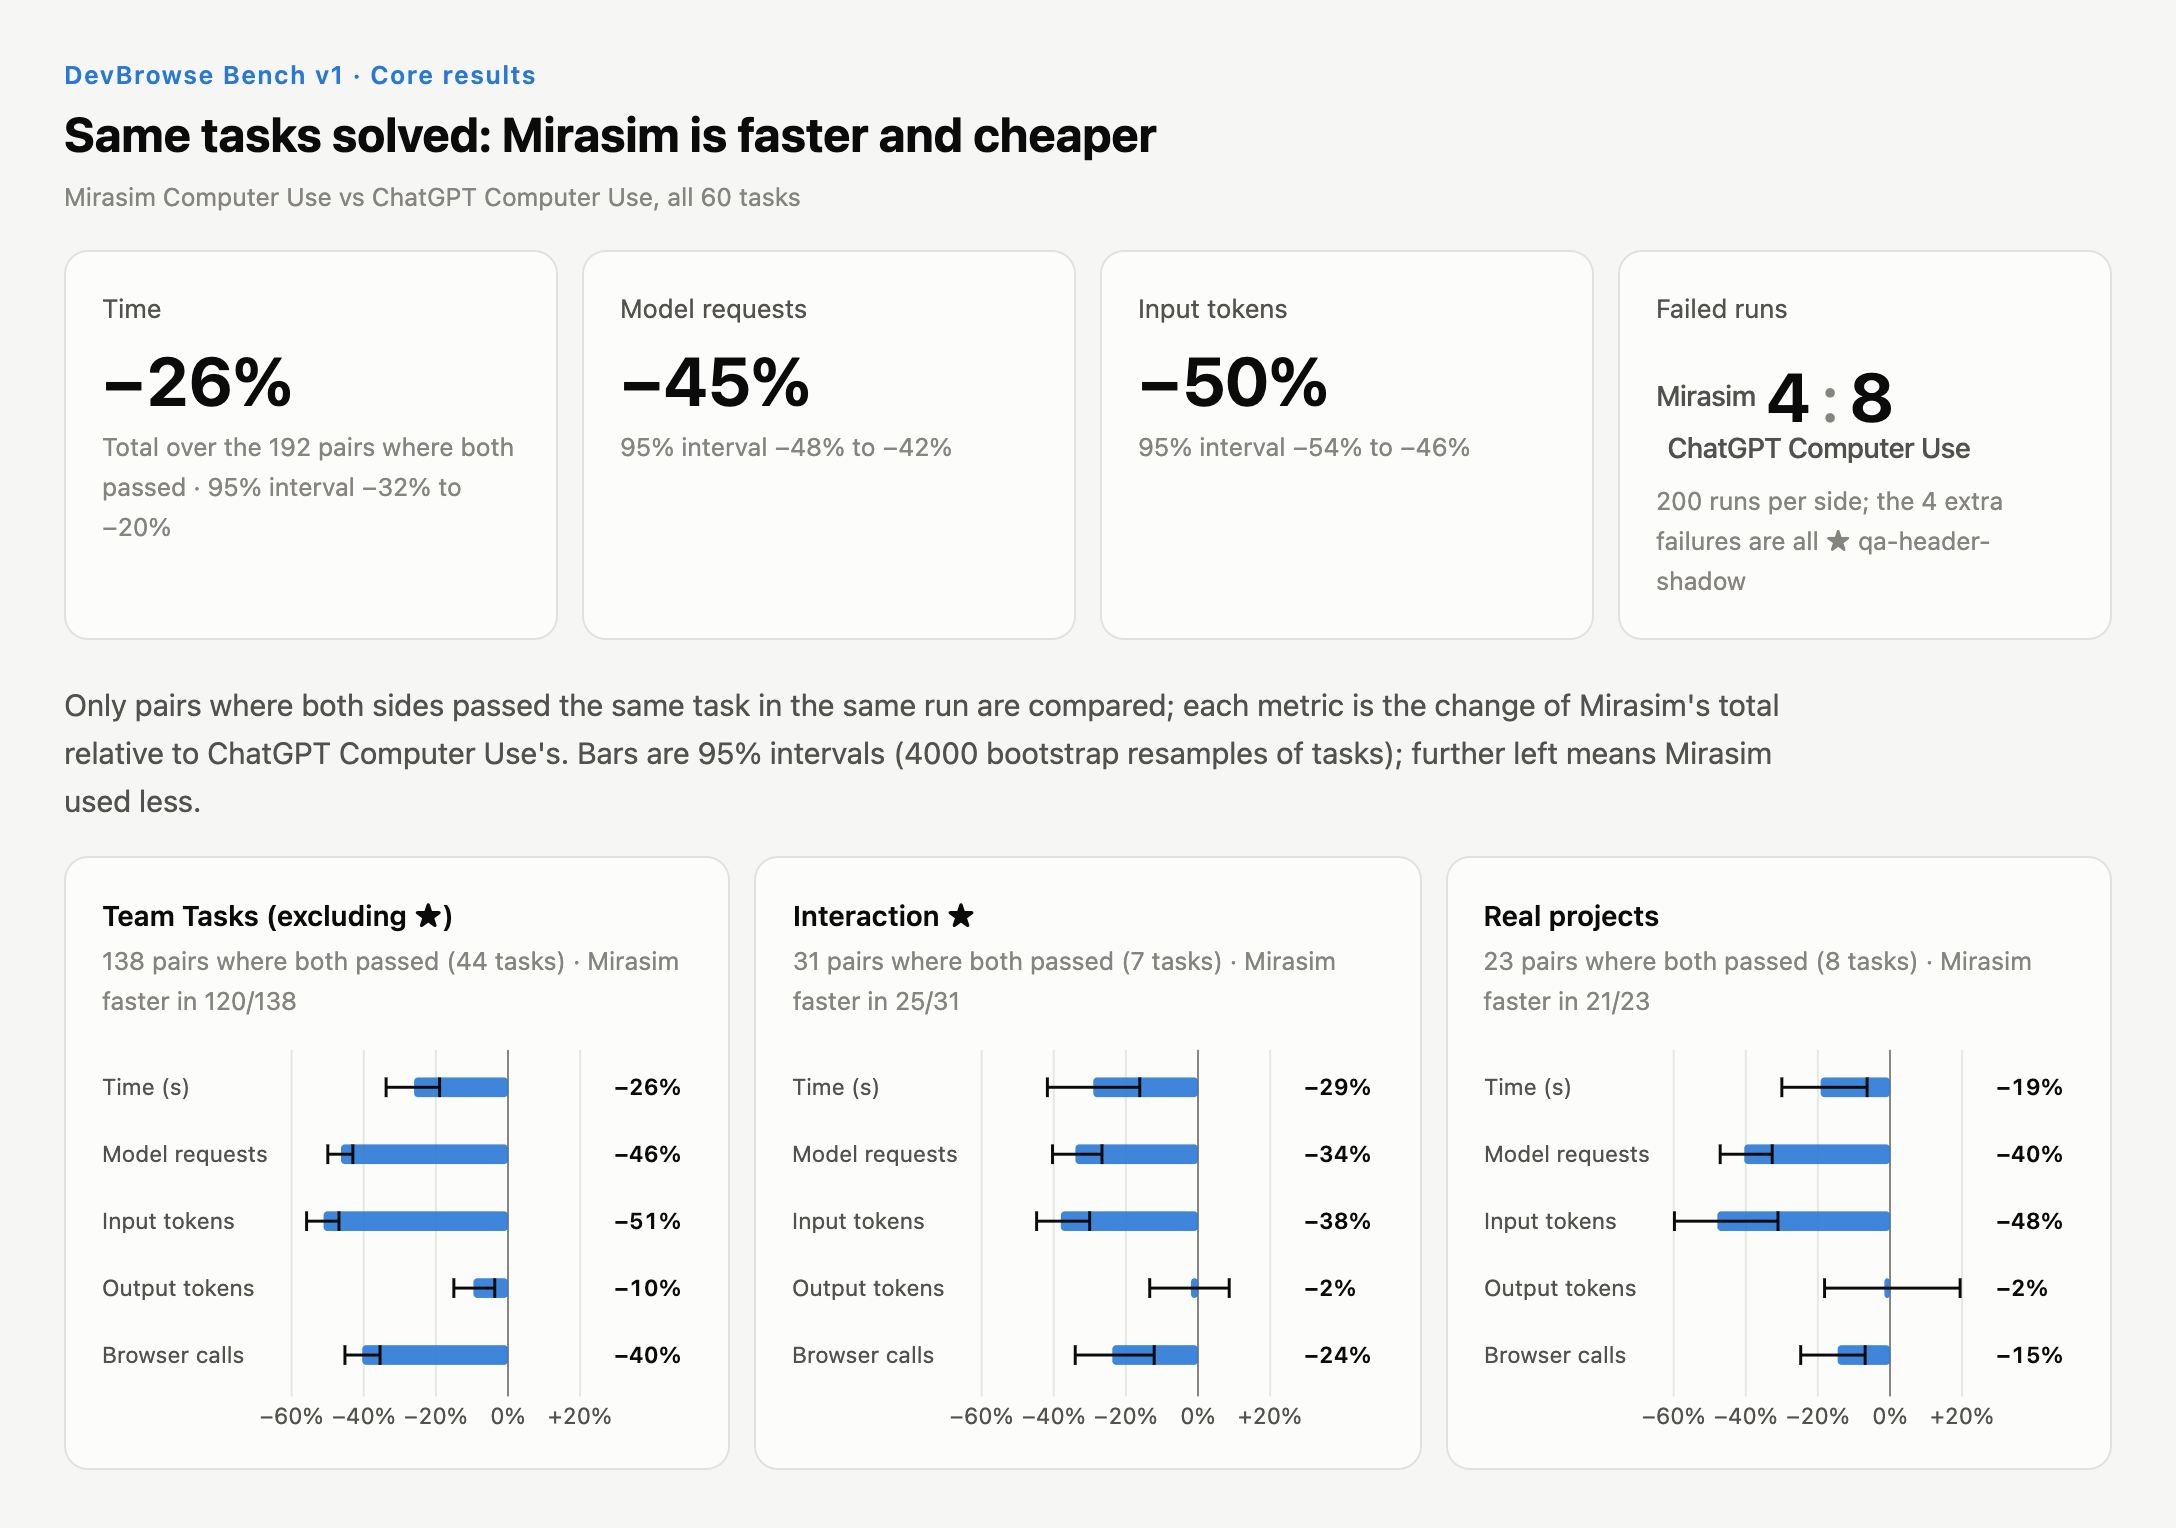
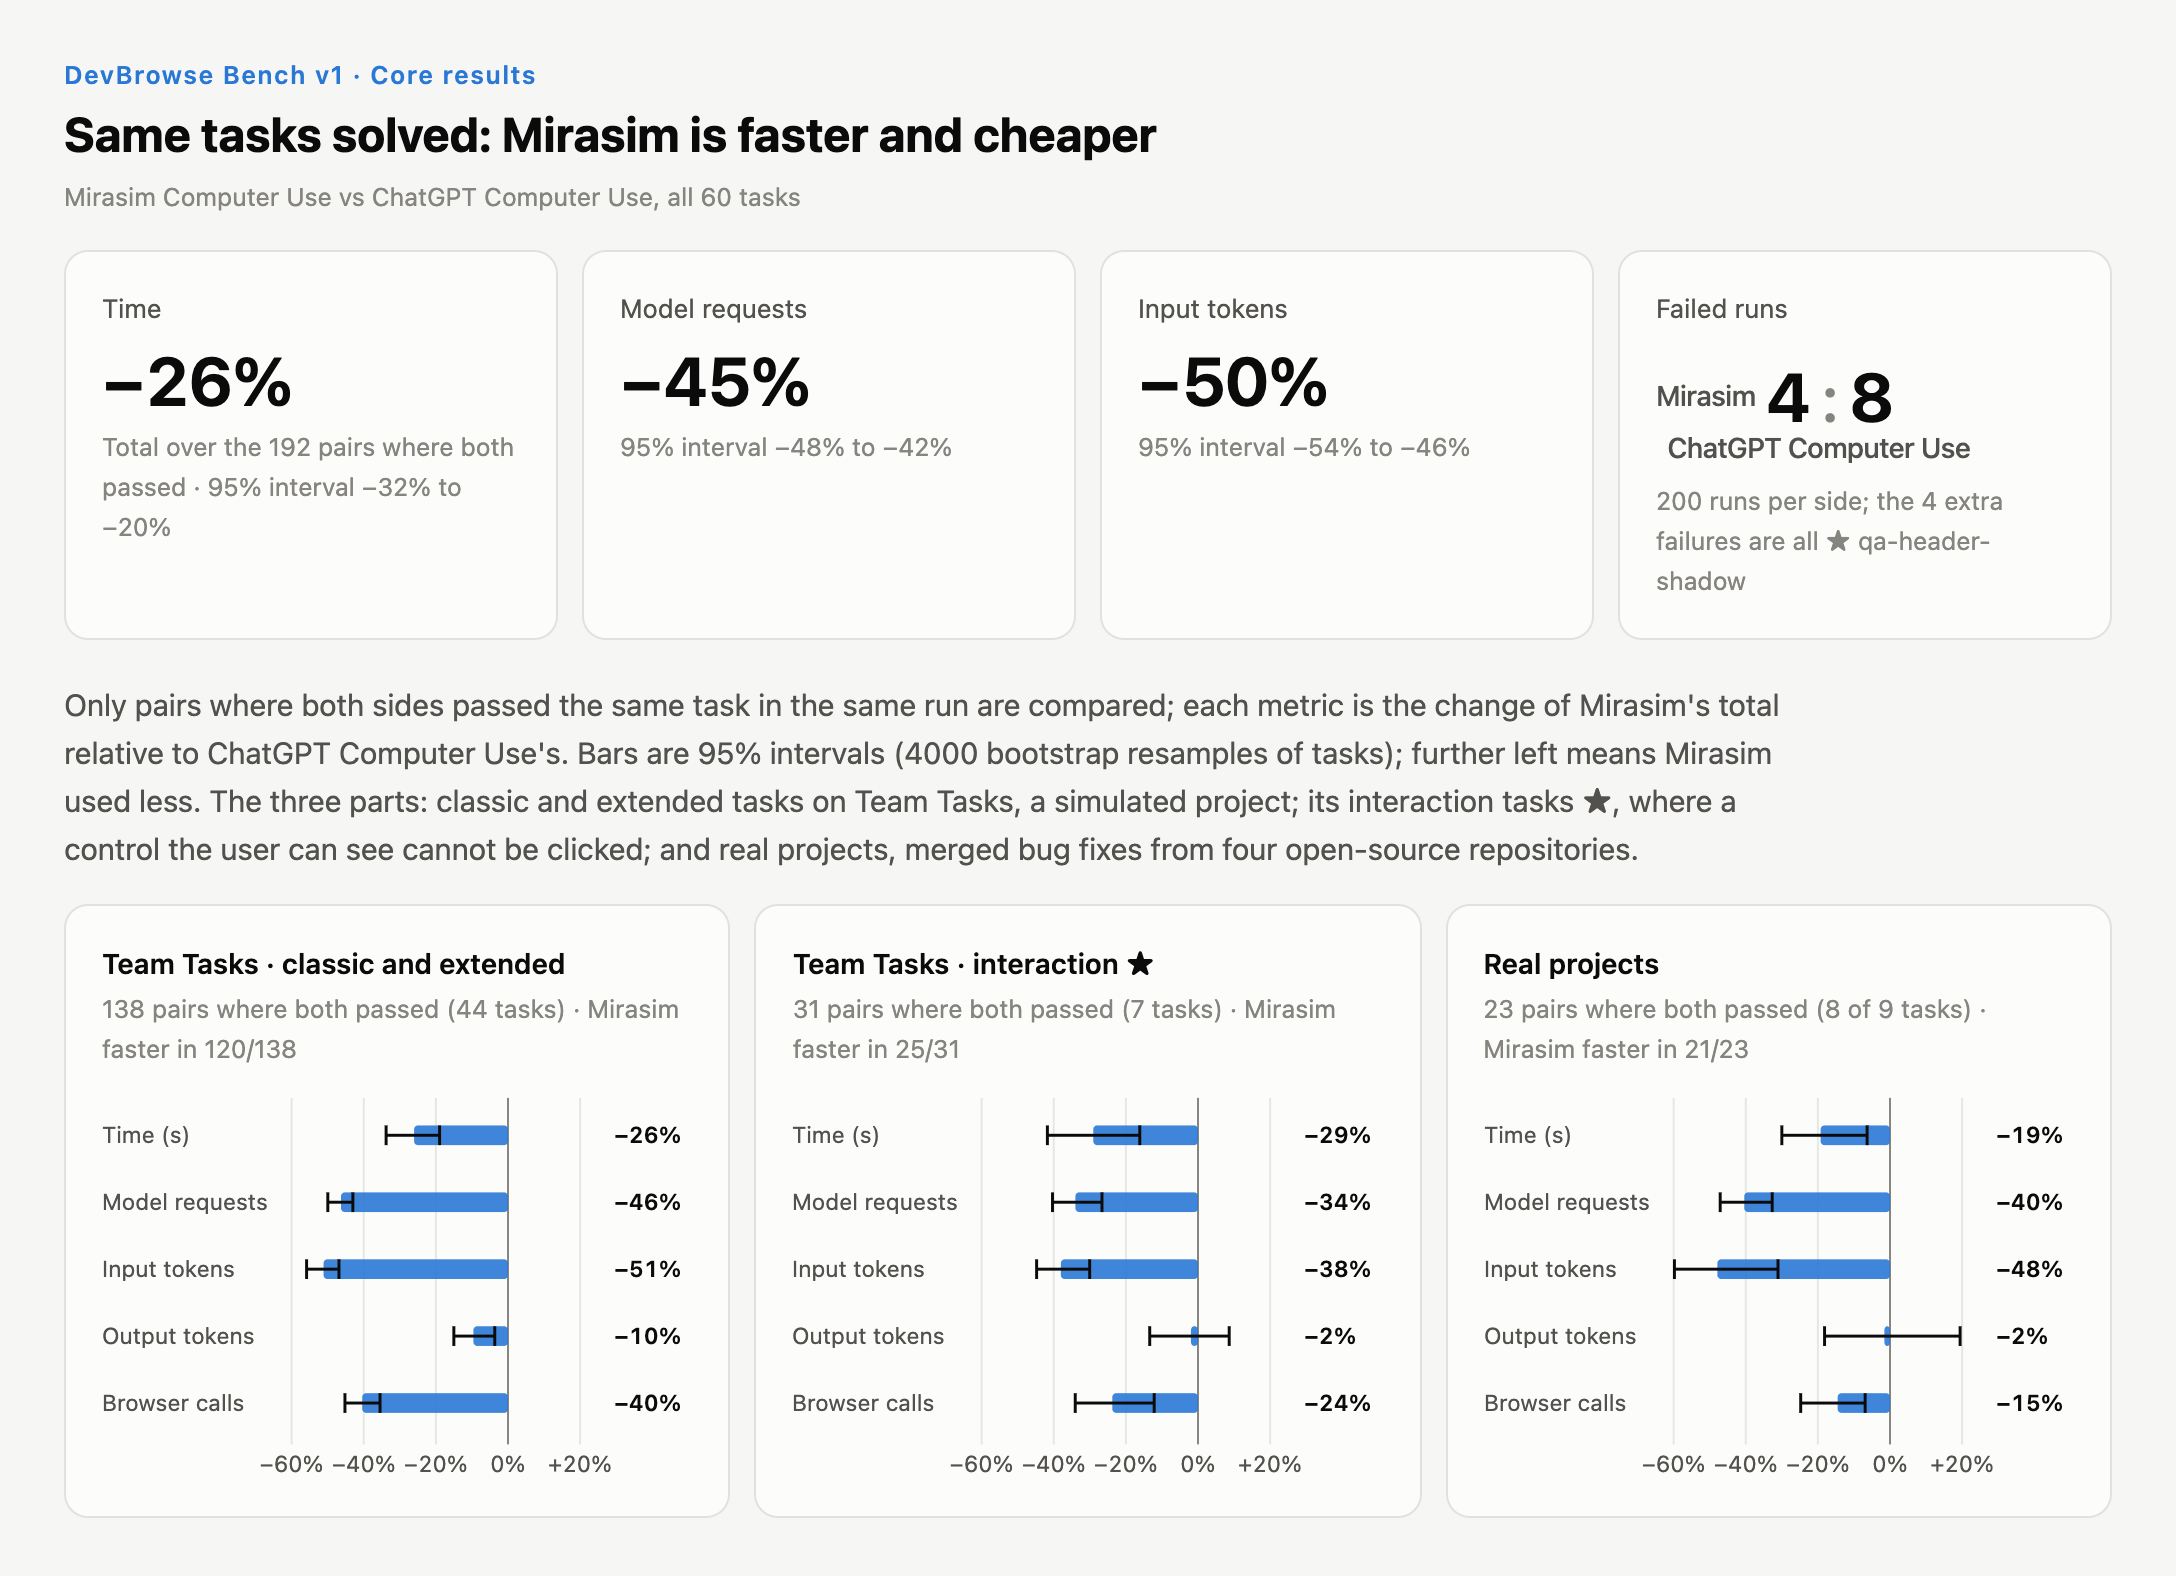
docs(readme): say what the three parts of DevBrowse Bench are
The figure's panels were headed "Team Tasks (excluding ★)", "Interaction ★" and "Real
projects", and the text beside it never used those names: it spoke of 51 tasks on a simulated
task manager and 9 merged bug fixes. A reader could not tell that the interaction tasks are on
the simulated project, nor what ★ marked.

The figure is the benchmark's re-exported one, with the panels headed "Team Tasks · classic and
extended", "Team Tasks · interaction ★" and "Real projects" and one sentence on what each is.
The text now names the same three parts with their task counts (44, 7 and 9), and says the four
extra failures are on an interaction task. No number changes.

diff --git a/README.md b/README.md
@@ -22,14 +22,18 @@ app ships the same tools built in (Settings → Computer Use).
 
 [DevBrowse Bench](https://github.com/mirasim-ai/devbrowse-bench) measures browser use in
 development work: a coding agent changes a web app, then checks its own work in a browser. v1 has
-60 tasks: 51 on a simulated React + Vite task manager (features, bug fixes, QA passes) and 9
-merged bug fixes from Excalidraw, Lexical, tldraw and react-admin. Each task runs as a pair, both
-sides at the same time in Codex in the ChatGPT desktop app, with the same model (`gpt-6.1-sol` at
-medium reasoning effort), the same prompt and the same starting code. The only difference is the
-browser tool the agent is told to use: ChatGPT Computer Use (the in-app browser of Codex), or
-Mirasim Computer Use 0.1.0-rc.5 as an MCP server. 200 runs per side, on 2026-11-06 and
-2026-11-07; time, model requests and tokens come from Codex's own session record, and every run
-was graded by rule-based judges.
+60 tasks in three parts, the three panels of the figure. 51 are on Team Tasks, a simulated React +
+Vite task manager written for the benchmark: 44 classic and extended tasks (features, bug fixes,
+QA passes) and 7 interaction tasks ★, bugs where a control the user can see cannot be clicked. 9
+are on real projects: merged bug fixes from the open-source repositories of Excalidraw, Lexical,
+tldraw and react-admin.
+
+Each task runs as a pair, both sides at the same time in Codex in the ChatGPT desktop app, with
+the same model (`gpt-6.1-sol` at medium reasoning effort), the same prompt and the same starting
+code. The only difference is the browser tool the agent is told to use: ChatGPT Computer Use (the
+in-app browser of Codex), or Mirasim Computer Use 0.1.0-rc.5 as an MCP server. 200 runs per side,
+on 2026-11-06 and 2026-11-07; time, model requests and tokens come from Codex's own session
+record, and every run was graded by rule-based judges.
 
 | | ChatGPT Computer Use | Mirasim Computer Use |
 |---|---|---|
@@ -50,9 +54,10 @@ Most of the time was saved in round trips: the agent made 45% fewer model reques
 output tokens it wrote fell by only 8%. `observe()` returns elements as data, so the agent puts
 its checks in the script and gets back a verdict instead of reading the page after every click.
 And a click lands where a user's mouse would: a click on a covered control fails and names the
-layer that took it. The four extra failures on the other side are all one QA task, where a
-transparent layer under a sticky header covers a toolbar for mouse clicks: the report written with
-ChatGPT Computer Use missed it in 4 of 5 runs, the one written with Mirasim Computer Use in none.
+layer that took it. The four extra failures on the other side are all one interaction task ★, a
+QA pass where a transparent layer under a sticky header covers a toolbar for mouse clicks: the
+report written with ChatGPT Computer Use missed it in 4 of 5 runs, the one written with Mirasim
+Computer Use in none.
 
 These numbers describe the two tools as they were on those two days. Around the end of the runs,
 ChatGPT Computer Use changed how it uses the browser and began to need fewer model requests per
